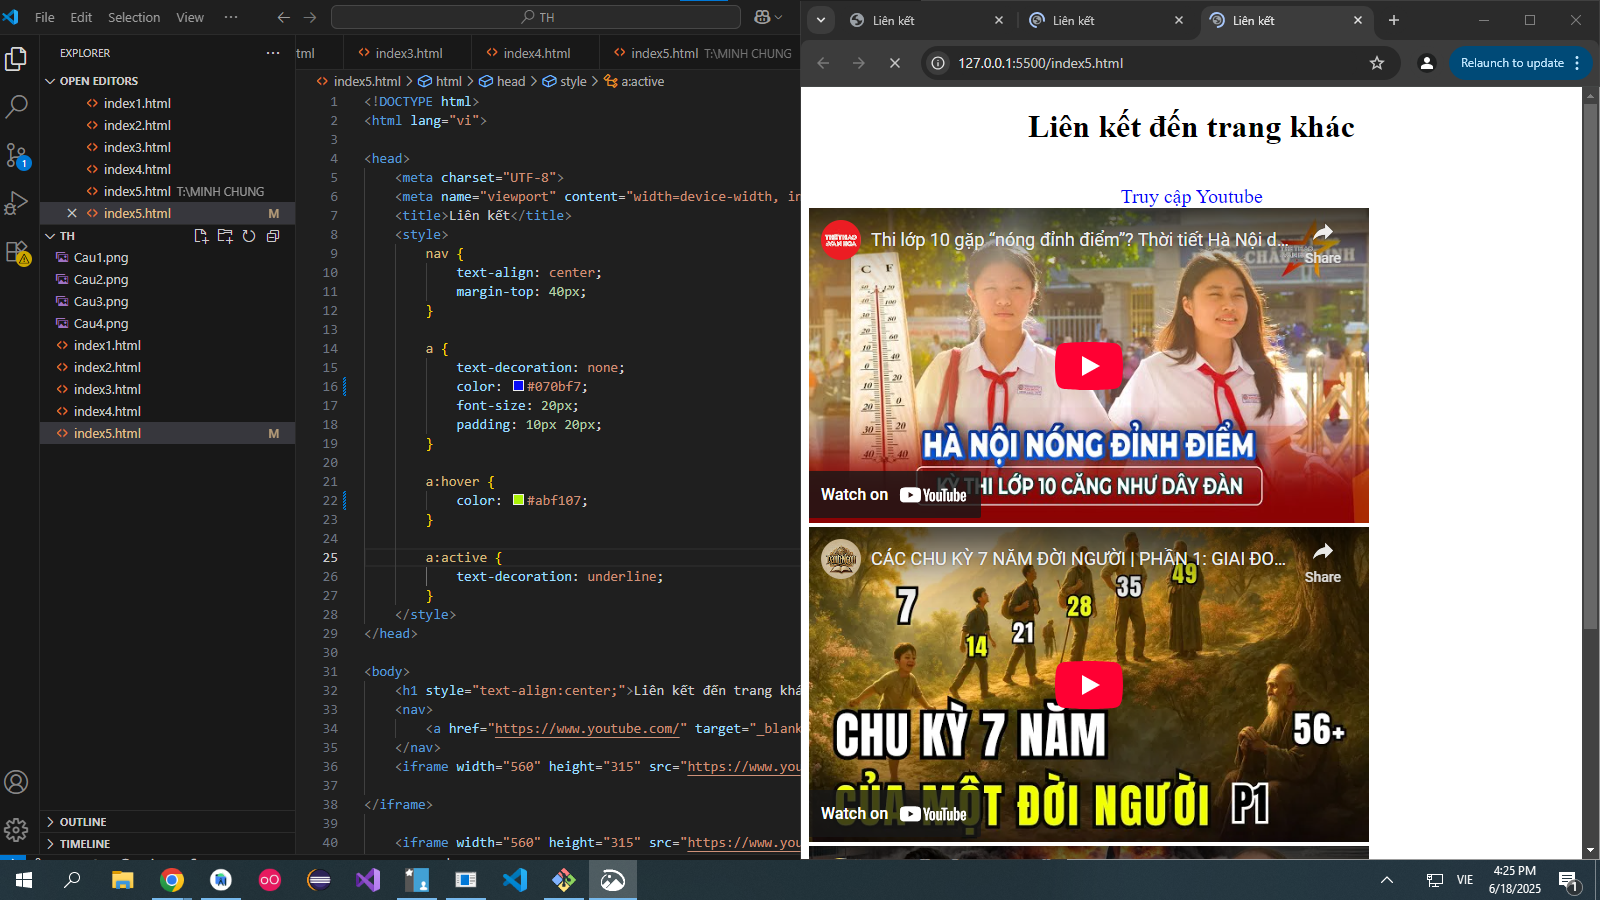
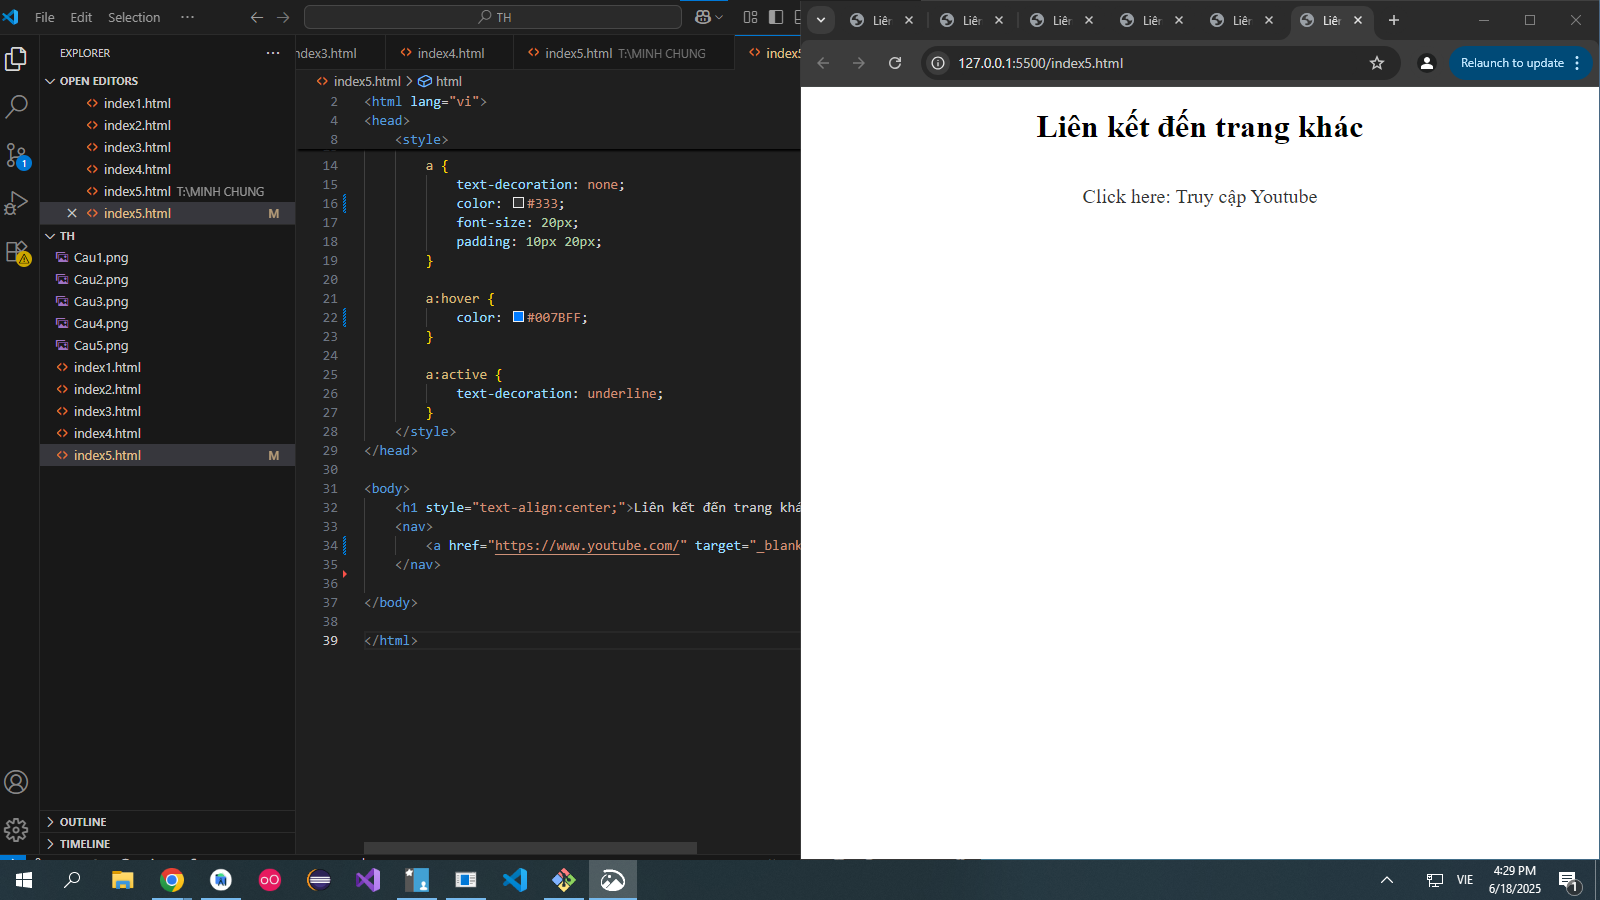
add file index5.html + TH

diff --git a/index5.html b/index5.html
@@ -13,13 +13,13 @@
         
         a {
             text-decoration: none;
-            color: #070bf7;
+            color: #333;
             font-size: 20px;
             padding: 10px 20px;
         }
         
         a:hover {
-            color: #abf107;
+            color: #007BFF;
         }
         
         a:active {
@@ -31,17 +31,8 @@
 <body>
     <h1 style="text-align:center;">Liên kết đến trang khác</h1>
     <nav>
-        <a href="https://www.youtube.com/" target="_blank">Truy cập Youtube</a>
+        <a href="https://www.youtube.com/" target="_blank"><span>Click here:</span>  Truy cập Youtube</a>
     </nav>
-    <iframe width="560" height="315" src="https://www.youtube.com/embed/GmONlpebnoA" frameborder="0" allow="accelerometer; autoplay; encrypted-media; gyroscope; picture-in-picture" allowfullscreen>
-    
-</iframe>
-
-    <iframe width="560" height="315" src="https://www.youtube.com/embed/ndTAGNe5eRw" frameborder="0" allow="accelerometer; autoplay; encrypted-media; gyroscope; picture-in-picture" allowfullscreen></iframe>
-
-
-    <iframe width="560" height="315" src="https://www.youtube.com/embed/s0qKqps-K4w" frameborder="0" allow="accelerometer; autoplay; encrypted-media; gyroscope; picture-in-picture" allowfullscreen>
-    </iframe>
 
 </body>
 
